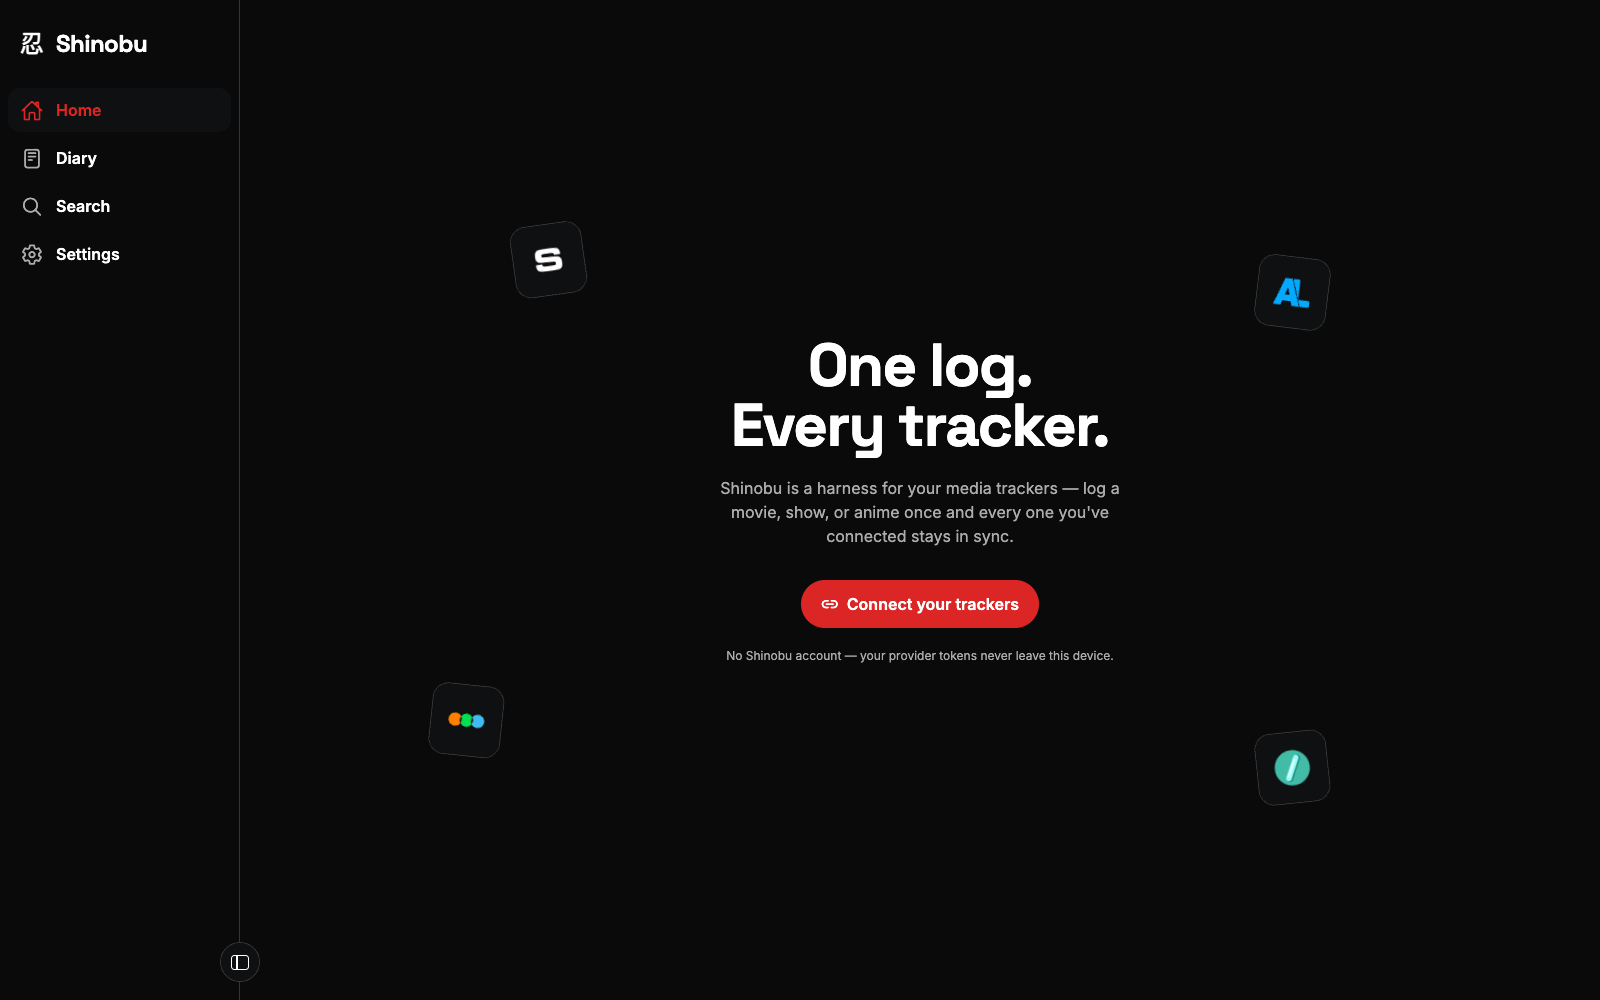
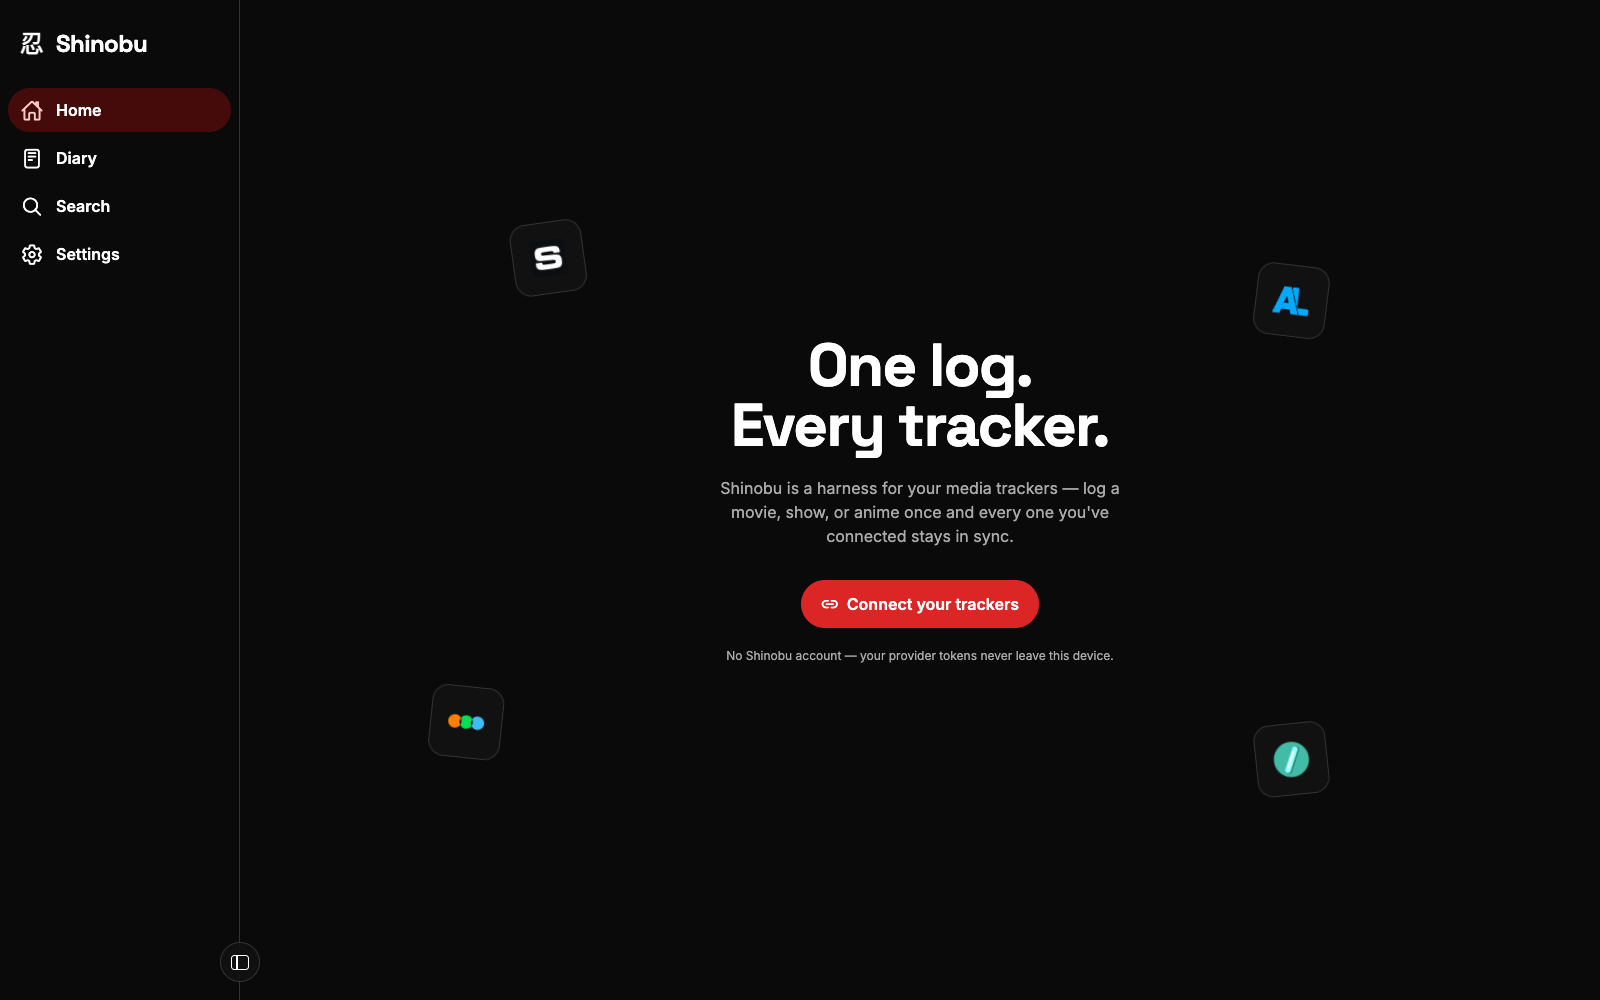
feat: tonal selection pill on the web sidebar and picker sheet, refreshed README shots (#135)
* feat(web): tonal red pill for the active sidebar item

Matches the Android tab bar: a full tonal pill, a light-red glyph on it,
and foreground labels and icons everywhere else. Refreshes the README
screenshots.

* chore(skills): add better-writing and break

* feat(picker-sheet): mark the selected option with the tonal pill

Drops the checkmark, which the pill replaces, and gives the rows room:
more space under the title, a 12px gutter around the pill, 4px between rows.

---------

diff --git a/src/components/picker-sheet.tsx b/src/components/picker-sheet.tsx
@@ -1,4 +1,3 @@
-import Ionicons from '@react-native-vector-icons/ionicons/static';
 import { createContext, type ReactNode, useContext } from 'react';
 import { Text, View } from 'react-native';
 
@@ -7,7 +6,6 @@ import { PresstableOpacity } from '@/components/presstable';
 import { Sheet } from '@/components/sheet';
 import { cn } from '@/lib/cn';
 import { haptics } from '@/lib/haptics';
-import { useThemeColor } from '@/lib/theme-color';
 
 type PickerValue = string | number | null;
 
@@ -18,8 +16,8 @@ const PickerContext = createContext<{
 
 /**
  * Single-choice list in the app's bottom sheet: a titled column of options,
- * each with an optional leading icon and a trailing count, the chosen one
- * checked. Picking selects and closes.
+ * each with an optional leading icon and a trailing count, the chosen one on
+ * the tonal pill the nav bars use. Picking selects and closes.
  *
  * ```tsx
  * <PickerSheet onClose={close} onSelect={setRole} open={open} title="Role" value={role}>
@@ -51,8 +49,10 @@ export function PickerSheet<T extends PickerValue>({
 
   return (
     <Sheet onClose={onClose} open={open}>
-      <Eyebrow className="mb-1">{title}</Eyebrow>
-      <PickerContext.Provider value={{ value, select }}>{children}</PickerContext.Provider>
+      <Eyebrow className="mb-3">{title}</Eyebrow>
+      <PickerContext.Provider value={{ value, select }}>
+        <View className="gap-1">{children}</View>
+      </PickerContext.Provider>
     </Sheet>
   );
 }
@@ -71,7 +71,6 @@ function PickerOption({
   accessibilityLabel?: string;
 }) {
   const picker = useContext(PickerContext);
-  const foreground = useThemeColor('--color-foreground');
   const selected = picker.value === value;
 
   return (
@@ -79,7 +78,13 @@ function PickerOption({
       accessibilityLabel={accessibilityLabel}
       accessibilityRole="button"
       accessibilityState={{ selected }}
-      className="flex-row items-center gap-3 py-3"
+      // The negative margin lets the pill bleed past the text, so labels stay
+      // aligned with the title. It bleeds half the sheet's padding, which
+      // leaves the pill as far from the sheet's edge as its text is from its own.
+      className={cn(
+        '-mx-3 flex-row items-center gap-3 rounded-full px-3 py-2.5',
+        selected && 'bg-accent-tonal',
+      )}
       onPress={() => picker.select(value)}
     >
       {icon}
@@ -92,10 +97,6 @@ function PickerOption({
         {label}
       </Text>
       {count != null && <Text className="text-muted font-sans text-sm">{count}</Text>}
-      {/* A fixed slot, so the counts line up whether or not a row is checked. */}
-      <View className="w-5 items-end">
-        {selected && <Ionicons color={foreground} name="checkmark" size={18} />}
-      </View>
     </PresstableOpacity>
   );
 }

diff --git a/src/components/app-shell/index.web.tsx b/src/components/app-shell/index.web.tsx
@@ -47,7 +47,7 @@ interface NavItem {
   icon: IoniconName;
 }
 
-// Outline icons only — active state is the accent colour + pill, never a heavy
+// Outline icons only — active state is the tonal red pill, never a heavy
 // filled glyph (the solid variants read poorly when selected).
 // Diary uses `reader-outline` (a lined page), not `book-outline`: the open-book
 // glyph is much wider and optically heavier than its home/search/settings
@@ -81,9 +81,8 @@ function isActive(pathname: string, href: string): boolean {
  * first page. See docs/solutions/web-prerender-bakes-js-resolved-colors.md.
  */
 const COLOR = {
-  accent: 'var(--color-accent)',
+  accentOnTonal: 'var(--color-accent-on-tonal)',
   foreground: 'var(--color-foreground)',
-  muted: 'var(--color-muted)',
 } as const;
 
 /**
@@ -170,22 +169,19 @@ function SidebarItem({
   collapsed: boolean;
   onPress: () => void;
 }) {
-  const color = active ? COLOR.accent : COLOR.muted;
+  const color = active ? COLOR.accentOnTonal : COLOR.foreground;
 
   return (
     <PresstableOpacity
       accessibilityLabel={item.label}
-      className={cn('h-11 flex-row items-center rounded-lg', active && 'bg-surface')}
+      className={cn('h-11 flex-row items-center rounded-full', active && 'bg-accent-tonal')}
       onPress={onPress}
     >
       <View className="items-center justify-center" style={{ width: ICON_COL }}>
         <Ionicons color={color} name={item.icon} size={22} />
       </View>
       <RevealLabel
-        className={cn(
-          'font-sans-semibold text-base',
-          active ? 'text-accent' : 'text-foreground',
-        )}
+        className="font-sans-semibold text-base text-foreground"
         collapsed={collapsed}
       >
         {item.label}

diff --git a/.agents/skills/break/SKILL.md b/.agents/skills/break/SKILL.md
@@ -1,0 +1,85 @@
+---
+name: break
+description: Renders a component you choose in every state and scenario on a temporary page and stress tests it.
+disable-model-invocation: true
+---
+
+# Break
+
+This skill takes one component and renders it on a fresh page under every scenario that can actually reach it. That page is the deliverable: a visual report the user scrolls through, every state side by side, with the breaks marked. A component built against one happy path looks finished right up until real content arrives.
+
+It observes rather than judges. A finding here is something that visibly broke on the page, named in the vocabulary of the domain skill that owns the fix. Reviewing code against a standard is `interface-review` and `better-interface`; exploring design alternatives is `variant`.
+
+Where `variant` insists on the real page, this skill isolates on purpose. You are not judging how the component looks in context. You are checking whether it defends itself when the content is worst-case.
+
+The whole run is build, look once, report: minutes, not a session. The work is rendering an existing component with different props, and nothing in it justifies instrumentation, browser debugging or a second pass.
+
+## 1. Scope one component
+
+One component per run. "The settings page" is not a component; the profile form's text input is. Where the request spans several, list the candidates and ask which one to test, rather than picking on the user's behalf.
+
+Restate what the component is in one sentence: what it accepts, what it renders and where it will live.
+
+## 2. Infer the scenarios from the component
+
+Stress only what varies. A scenario earns a slot when the component accepts something that can take that shape in production. So read the component first: its props, its slots, its states and the data it renders.
+
+[scenarios.md](scenarios.md) holds the axes, the values on each and the cue that says whether an axis applies. Walk it against the component and keep only the axes whose cue matches. A text input gets content length and states, never item quantity. A static icon button with a fixed label gets container and environment, never long text.
+
+Write the kept scenarios down before building, one line each, so the harness renders a planned set rather than whatever came to mind. Then say which axes you dropped and why, in one line, so a wrong inference is cheap to catch.
+
+## 3. Build the harness page
+
+One throwaway page, holding the real component imported from the project, rendered once per scenario in a single column with a short text label above each instance.
+
+The component ships untouched, in its real environment. A scratch route inside the app gives it the app's own layout, fonts and global styles for free. Labels, container widths and fixture props are everything the page adds: no fonts or styles of its own, no simulated themes or token swaps, no probes. A component observed under any of those is a different component.
+
+Where the framework splits server from client components, the page itself is client code, `"use client"` in Next. Fixture props can silently vanish crossing that boundary into an interactive component, and every scenario renders empty.
+
+Widths are scenarios on the page. Render the width cases inside fixed-width containers beside the full-width one, so a single load shows every width and nothing ever gets resized.
+
+Feed scenarios as props and fixture data. The harness never imports production state, never wires to live data and production never imports from the harness.
+
+## 4. Look once
+
+One pass. Load the page in a browser that is already at hand, skim every scenario top to bottom and note what visibly broke. "Text escapes the field's right edge", never "spacing feels tight". A run that never rendered is a code review wearing a costume, and a predicted failure is still not a finding.
+
+One load is the budget. When there is no browser, or the browser needs launching, window-wrangling or any debugging at all, skip the look entirely: hand the URL over and let the user's own eyes be the observation. Their look is worth more than yours anyway, since the page is theirs to read.
+
+Then mark each break you did see on the page, a one-line note under that scenario's label, in a single edit. The page has to read as the report on its own.
+
+## 5. Report what broke and stop
+
+Report findings as a table, broken scenarios first:
+
+| Scenario | Observed | Owner |
+| --- | --- | --- |
+| One unbreakable 60-character string | Overflows the card, no wrap and no truncation | `better-typography` |
+| Zero items | Blank region with no message | `better-writing` |
+
+The owner column names the domain skill whose rules diagnose the break, so the fix starts in the right place. This skill owns no domain rules and issues no verdict.
+
+"Everything survived" is a complete and useful report. Say which scenarios are on the page and where it is running, so the user can see every one themselves. End there rather than padding the result with preferences.
+
+Do not fix anything unasked. On a request to fix, follow the owner skill's rules, then re-render the failing scenarios to confirm.
+
+## 6. Leave the page up, delete it on request
+
+The page is half the report, so it outlives the findings table. Leave it running and delete it and its fixtures only when the user says they are done with it.
+
+## Before you finish
+
+| Mistake | Fix |
+| --- | --- |
+| Every axis run against every component | Keep only the axes whose cue matches, and say which you dropped |
+| A predicted failure reported as observed | Render it, or leave it out |
+| A scenario missing the content it was fed | The harness is broken, not the component; make the page client code and re-check |
+| A rebuilt lookalike component in the harness | Import the real component from the project |
+| The harness restyles or re-themes the component | The app's layout, fonts and tokens as they are; labels and widths are all the page adds |
+| A browser launched, debugged or screenshotted per scenario | One load and one look, or hand the URL over and skip the look |
+| Findings phrased as taste | Report what was visible on the page, or nothing |
+| A break reported without an owner | Name the domain skill whose rules diagnose it |
+| A clean run padded with suggestions | "Everything survived" plus the scenario list is the report |
+| The viewport resized scenario by scenario | Widths are fixed containers on the page; one load shows them all |
+| A break in the table but unmarked on the page | Note it under the scenario's label; the page reads as the report on its own |
+| Page deleted in the same turn as the report | The page is half the report; delete only on the user's word |

diff --git a/.agents/skills/better-writing/SKILL.md b/.agents/skills/better-writing/SKILL.md
@@ -1,0 +1,114 @@
+---
+name: better-writing
+description: Focuses on improving product copy in your project.
+---
+
+# Interface writing
+
+Clear and brief beats clever; consistent beats varied. The best error message is the interaction redesigned so the error cannot happen.
+
+How copy renders (capitalization via `text-transform`, truncation, smart punctuation) belongs to `better-typography`. Error markup and announcements (`aria-invalid`, live regions) belong to `better-accessibility`. Room for translated strings belongs to `better-layout`.
+
+## Recon the existing voice
+
+Before writing or reviewing, read the copy nearby. Note the product's terminology, its localization conventions and any voice or content style guide.
+
+A deliberate brand voice is not a defect. Raise a departure from plain language only when it creates inconsistency, ambiguity, translation risk, or a tone the stakes don't support.
+
+## One voice, flexible tone
+
+The product has one voice and its existing copy establishes it. A local edit does not get to invent a new one. Keep terms consistent: if it's "Archive" in the menu, it isn't "Move to storage" in the toast. Tone flexes with the stakes:
+
+| Context | Tone |
+| --- | --- |
+| Success, onboarding, empty states | Warm, can be light |
+| Routine actions, settings | Neutral, minimal |
+| Errors, destructive confirmations | Calm, plain, zero playfulness |
+| Data loss, security | Serious, explicit |
+
+## Address the reader directly
+
+In instructional copy, write "you", not "the user". In errors, "we" invites ambiguity and reads as deflection, so prefer "Unable to load content" over "We're having trouble loading this content". An established first-person voice can stay in low-stakes copy where it still reads clearly.
+
+Use possessives sparingly: "Favorites" beats "Your Favorites". Hold one perspective throughout a flow.
+
+## Plain words over clever ones
+
+Choose words a tired reader gets on the first pass, and delete every word that does no work. No idioms, no colloquialisms, no humor that won't translate.
+
+Skip unnecessary gender: "Subscribers can post recipes", not "each subscriber can post his or her recipes". Match the input device: "tap" on touch, "click" with a pointer, "select" when both are possible.
+
+Never assemble a sentence from fragments around a variable (`"You have " + n + " new messages"`), because word order changes per language. Use a full templated string with proper pluralization.
+
+## Verb-first buttons
+
+A button label starts with a verb naming the action: "Send", "Save draft", "Delete project". Never "OK!", "Let's go!", or a bare "Yes" and "No" on a consequential action.
+
+A confirmation button repeats the consequence, so the dialog is answerable without reading the body. "Delete this project?" offers `Delete project` and `Cancel`.
+
+## Consistent flow vocabulary
+
+A multi-step flow uses one vocabulary throughout: "Get started" to enter, "Continue" or "Next" (pick one) to advance, "Done" to finish. Alternating synonyms makes users wonder whether the buttons do different things.
+
+## Links describe their destination
+
+Link text has to make sense out of context, because screen-reader users navigate by a list of the page's links. Write "Read the billing docs". "Click here" fails this and the device-verb rule at once.
+
+A bare "Learn more" breaks down as soon as two appear on one page. Suffix each one: "Learn more about exports".
+
+## One capitalization policy
+
+Pick title case or sentence case per element type, then apply it to every instance of that type. Sentence case is the safer default. It is calmer, has no per-word rules to remember and localizes cleanly. "Save Changes" beside "Discard changes" reads as sloppiness.
+
+## Settings describe the ON state
+
+Label a toggle for what happens when it is on. "Send read receipts" lets users infer the off state; the negative ("Don't send read receipts") turns the toggle into a double negative.
+
+Link straight to a referenced setting rather than describing the path to it: a "Notification settings" link, not "Go to Settings > Notifications > Email".
+
+## Errors say how to fix, next to where it broke
+
+An error is an instruction, and it belongs beside the field that failed:
+
+| Bad | Good |
+| --- | --- |
+| That password is too short | Choose a password with at least 8 characters |
+| Invalid name | Use only letters for your name |
+| Oops! Something went wrong. | Unable to save. Check your connection and try again. |
+
+No blame, no "oops", no exclamation marks. Phrase hints positively ("Use only letters", not "Don't use numbers or symbols") and show them before the mistake, not after. When the same error keeps firing, redesign the interaction instead of rewording it.
+
+## Empty states point forward
+
+An empty state says what this place is, how to fill it and offers one clear next action:
+
+```html
+<!-- Bad: a shrug -->
+<p>No results.</p>
+
+<!-- Good: orientation plus a next step -->
+<p class="font-medium">No projects yet</p>
+<p class="text-sm text-zinc-500">Projects keep your tasks and files together.</p>
+<button class="mt-4">Create a project</button>
+```
+
+A search or filter empty state names the query and offers an exit: "No results for 'quarterly'. Clear filters". Never park persistent information in an empty state. It disappears the moment content exists.
+
+## Placeholders are examples, not labels
+
+A placeholder shows the expected format: `name@example.com`, `DD/MM/YYYY`. It vanishes on input, so it is never the only label. Every field keeps a visible one.
+
+## Reporting
+
+**Severity.** `HIGH` misleads the user or hides how to recover from an error. `MEDIUM` breaks voice, terminology, or capitalization consistency. `LOW` is isolated wording polish.
+
+**Verification.** Source alone is enough here. Check every label against the action it invokes, every error for a stated fix and terminology against the copy around it. No browser check is required.
+
+**Format.** Group findings under the principle each violates, ordered by severity, one row per root cause listing every location it appears in:
+
+| Severity | Location | Before | After | Why |
+| --- | --- | --- | --- | --- |
+
+`Location` is `path/to/file:line`. `Why` names the principle and the user impact.
+
+End with `Block` when any `HIGH` remains, `Approve` otherwise, leaving the rest in the table as work to do. Never `Approve` coverage you did not inspect. With nothing to report, state "No actionable writing findings" and report verification.

diff --git a/.agents/skills/break/scenarios.md b/.agents/skills/break/scenarios.md
@@ -1,0 +1,78 @@
+# Scenario axes
+
+The menu step 2 of [SKILL.md](SKILL.md) selects from. Each axis carries a cue: the property of the component that makes the axis worth running. Cue matches, axis stays; cue fails, axis is dropped and the drop is named in the plan.
+
+An axis that stays contributes its scenarios as written here, plus any value the component's own props make obviously worse, such as the longest option in a real dataset.
+
+## Content length
+
+**Cue: the component renders text it does not author.** User input, CMS content, API data, translations. A fixed label the codebase controls fails the cue.
+
+| Scenario | What it catches |
+| --- | --- |
+| Empty string | Collapsed boxes, floating labels with nothing to float over, placeholder-only inputs |
+| One word | Buttons and badges sized to their longest expected content |
+| Typical content | The baseline the others are judged against |
+| Several sentences | Wrapping, line-height at multiple lines, containers that assumed one line |
+| One unbreakable string | A long URL or `Donaudampfschiffahrtsgesellschaft`: overflow with no wrap opportunity |
+
+Breaks land in `better-typography` for wrapping and truncation, `better-layout` where the container has no room and `better-writing` where the source copy is the problem.
+
+## Content shape
+
+**Cue: the text can come from users or locales the team does not write in.** Same sources as content length, minus content the codebase fully controls.
+
+| Scenario | What it catches |
+| --- | --- |
+| Emoji, alone and mixed into text | Line-height jumps, broken vertical centering, truncation splitting a character |
+| RTL text | Direction handling, punctuation landing on the wrong side |
+| Mixed-direction text | An LTR product name inside an RTL sentence, and the reverse |
+| Diacritics and tall scripts | Clipped ascenders and descenders in tight line boxes |
+| Numbers where columns align | Proportional figures wobbling in tables and timers |
+
+Breaks land in `better-typography`; spatial mirroring lands in `better-layout`.
+
+## Quantity
+
+**Cue: the component repeats over items.** Lists, tables, grids, tag rows, avatar stacks. A singular component fails the cue.
+
+| Scenario | What it catches |
+| --- | --- |
+| Zero items | Blank regions, missing empty states |
+| One item | Grids and layouts designed around plural content |
+| The realistic count | The baseline |
+| Ten times the realistic count | Missing scroll or pagination, performance collapse, sticky elements unsticking |
+
+Zero-item breaks land in `better-writing` for the empty state and `better-layout` for the region; the rest land in `better-layout`.
+
+## Container
+
+**Cue: always.** Everything renders inside something, and the component does not choose its container's width. Each width is a fixed container on the page, never a viewport to resize.
+
+| Scenario | What it catches |
+| --- | --- |
+| A 320px container | Clipping, horizontal scroll, controls escaping the box |
+| Squeezed by a flex or grid sibling | Min-content blowout, the component refusing to shrink |
+| A very wide container | Unbounded measure, stretched controls, content pinned to opposite edges |
+
+Breaks land in `better-layout`.
+
+## State
+
+**Cue: the component has the state.** Read the props and the interaction model; render only the states that arrive as props. A static component fails the cue entirely.
+
+| Scenario | What it catches |
+| --- | --- |
+| Loading | Layout shift when content arrives, spinners with no accessible name |
+| Error | Messages that overflow, color as the only signal |
+| Disabled | Contrast collapse, focus behavior on disabled controls |
+
+Focus and hover are the user's to try while they view the page. Invite them to tab through the instances in the report rather than simulating focus in the harness.
+
+Breaks land in `better-accessibility`; purely visual state polish lands in `better-ui`.
+
+## Environment
+
+**Cue: the project supports the mode.** These are viewing modes, not page content, so the page renders nothing for them. Name them in the report for the user to toggle while viewing: OS dark mode where a dark theme exists, browser zoom, reduced motion. Simulating one on the page, such as re-declaring dark tokens under a class, observes a different component.
+
+Dark-mode breaks land in `better-colors`; zoom and motion land in `better-accessibility`.
